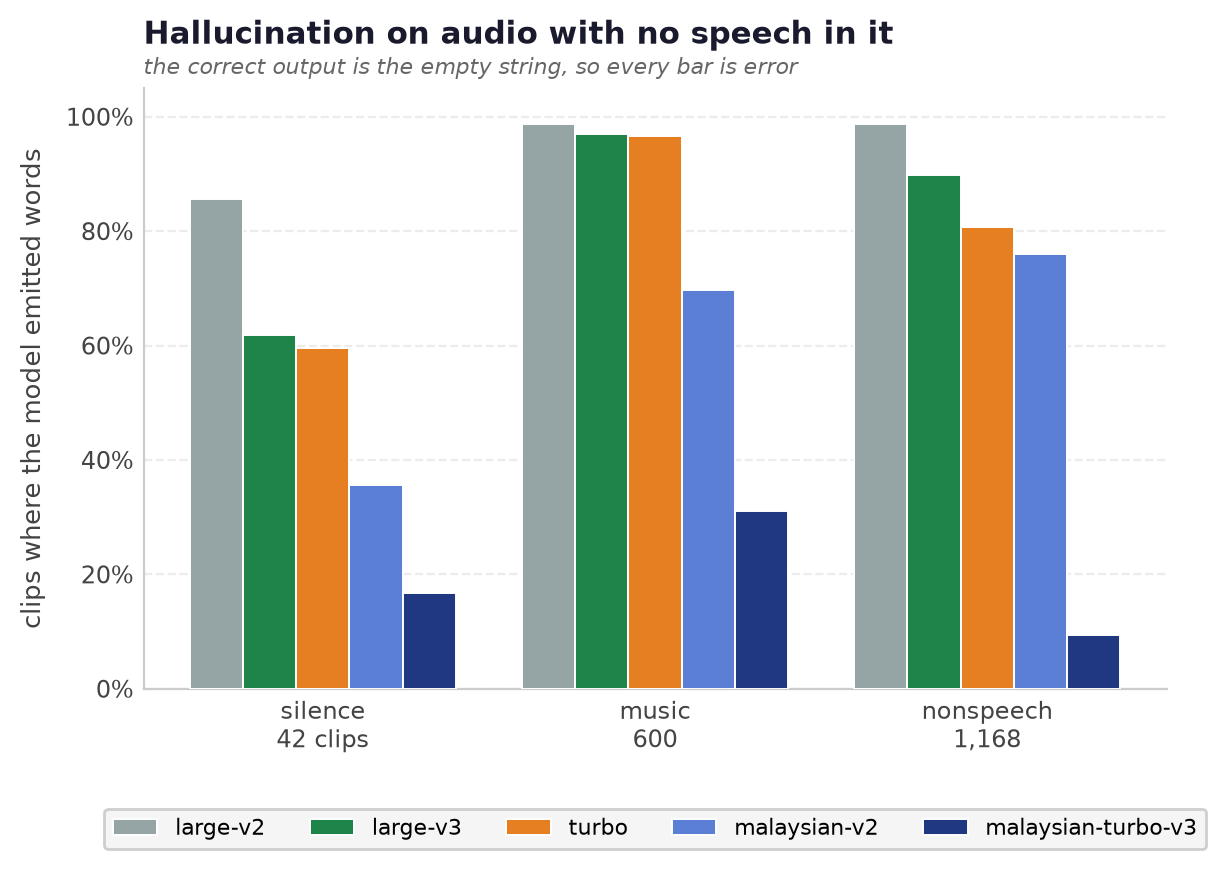
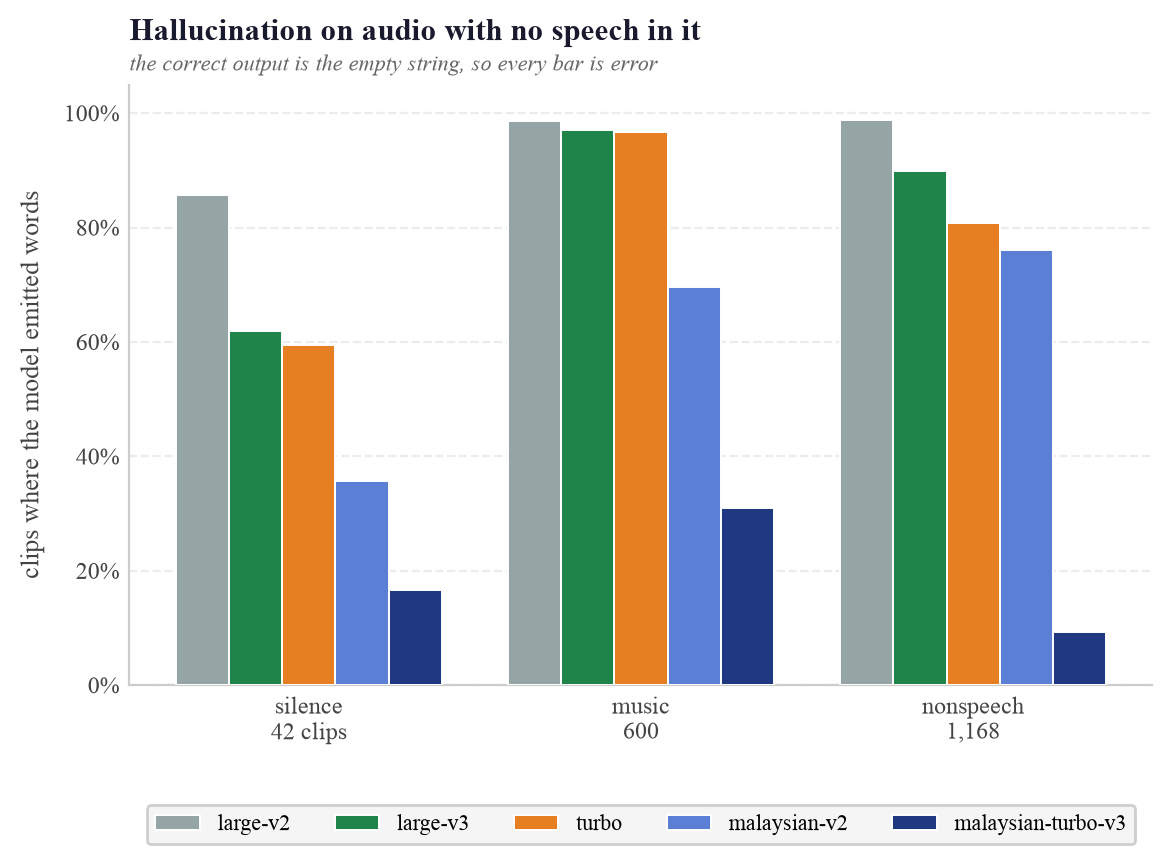
Set the figures in the paper's typeface, and stop the floats drifting
Two real defects, both mine.

The paper is Times: neurips_2023.sty does \renewcommand{\rmdefault}{ptm}. Matplotlib defaults
to DejaVu Sans, so every label, tick and legend in all sixteen figures was in a different
typeface from the body text. plot_figs.py now sets font.family serif with Times first and stix
for mathtext.

Floats were drifting pages away from the paragraph that introduces them, because LaTeX will
not place a float on a page whose remaining text falls below \textfraction, and with sixteen
figures that fires constantly. Relaxed topfraction to 0.92, textfraction to 0.06,
floatpagefraction to 0.70, raised the per-page float counters, and moved every float to
[!htbp]. Measured after: every figure caption is now within one page of its first mention,
where several were three or more pages away.

diff --git a/preprint/neurips_2023.tex b/preprint/neurips_2023.tex
@@ -27,6 +27,17 @@
 \usepackage{adjustbox}
 \usepackage[section]{placeins}
 
+% LaTeX will not put a float on a page whose text drops below \textfraction, which with 17
+% figures sends them drifting pages away from the paragraph that introduces them. Let a float
+% take more of the page and let a float page be less full.
+\renewcommand{\topfraction}{0.92}
+\renewcommand{\bottomfraction}{0.85}
+\renewcommand{\textfraction}{0.06}
+\renewcommand{\floatpagefraction}{0.70}
+\setcounter{topnumber}{3}
+\setcounter{bottomnumber}{2}
+\setcounter{totalnumber}{4}
+
 % The default skips put a caption flush against its table and a float flush against the
 % surrounding text, which reads as a wall.
 \setlength{\abovecaptionskip}{10pt}
@@ -128,7 +139,7 @@ OpenAI releases. The other two are Mesolitica's Malay fine-tunes, which matter h
 their training pipeline is public and already contains non-speech audio, so they are the
 closest existing thing to the fix this paper proposes.
 
-\begin{table}[htbp]
+\begin{table}[!htbp]
 \centering
 \caption{The checkpoints, and the short labels used in every table and figure below. The two
 Malay fine-tunes are built on \texttt{large-v2} and \texttt{turbo} respectively, and
@@ -150,7 +161,7 @@ thirty-two. Wide tables abbreviate the last two labels further, to \texttt{mal-v
 \end{tabular}
 \end{table}
 
-\begin{table}[htbp]
+\begin{table}[!htbp]
 \centering
 \caption{Hallucination on audio that contains no speech. The correct output is the empty
 string, so any output at all is wrong. The first block counts outputs containing words, the
@@ -282,7 +293,7 @@ emitting text, which is the failure mode of every aggressive fine-tune we measur
 
 \subsection{Non-speech audio}
 
-\begin{table}[htbp]
+\begin{table}[!htbp]
 \centering
 \caption{The eight benchmark arms. Every arm is a \texttt{test} split. The training corpus is a
 separate build that is disjoint by construction, verified before any training run.}
@@ -336,7 +347,7 @@ words emitted where Silero voice activity detection finds no speech. We never ca
 hallucination because a transcript disagrees with a reference, since that finds ordinary
 recognition errors.
 
-\begin{table}[htbp]
+\begin{table}[!htbp]
 \centering
 \caption{Hallucination yield by corpus, per 8,000 clips heard. Recording quality predicts yield
 across five thousandfold.}
@@ -383,7 +394,7 @@ Their pipeline is open, their training mix already contains non-speech audio, an
 only checkpoints here that were deliberately tuned against hallucination. Treat them as the
 strong baseline, not as a foil.
 
-\begin{figure}[htbp]
+\begin{figure}[!htbp]
   \centering
   \includegraphics[width=0.86\linewidth]{img/fig_tradeoff.png}
   \caption{Every checkpoint trades one failure for the other. Horizontal axis is how often the model emits words over audio with no speech in it, pooled over the three non-speech arms and weighted by clip count. Vertical axis is how often it recovers a phrase that is genuinely spoken. The top left corner is the model everyone wants and nothing is there.}
@@ -394,21 +405,21 @@ strong baseline, not as a foil.
 $r = +0.63$ between the pooled non-speech word-emission rate and phrase recovery. Quiet models delete real speech and accurate models write over silence. This is
 the central measurement of the paper and it is what makes a one-sided metric dangerous.
 
-\begin{figure}[htbp]
+\begin{figure}[!htbp]
   \centering
   \includegraphics[width=0.86\linewidth]{img/fig_nonspeech.png}
   \caption{Hallucination on the three non-speech arms. Every bar is error, because the correct output is the empty string.}
   \label{fig:benchmark}
 \end{figure}
 
-\begin{figure}[htbp]
+\begin{figure}[!htbp]
   \centering
   \includegraphics[width=0.86\linewidth]{img/fig_repetition.png}
   \caption{Both extremes are wrong on repeated speech. A model that emits more repeats than were spoken is running away; a model that emits nothing has deleted the speech. \texttt{Malaysian-turbo-v3} does the second on 58.0\% of clips.}
   \label{fig:redup}
 \end{figure}
 
-\begin{table}[htbp]
+\begin{table}[!htbp]
 \centering
 \caption{Accuracy. The last two rows are the multilingual guard, in character error rate.}
 \label{tab:wer}
@@ -438,7 +449,7 @@ these languages at all. For base \texttt{large-v3}, Amharic sits at 1.81 charact
 Khmer at 1.58, Somali at 1.44, while Spanish, Italian and Dutch sit at 0.01. The mean measures
 the tail and the median measures the typical language. Quoting one without the other misleads.
 
-\begin{figure}[htbp]
+\begin{figure}[!htbp]
   \centering
   \includegraphics[width=0.86\linewidth]{img/fig_fleurs_per_lang.png}
   \caption{The same measurement language by language, ordered by base \texttt{large-v3}
@@ -448,7 +459,7 @@ the tail and the median measures the typical language. Quoting one without the o
   \label{fig:fleursperlang}
 \end{figure}
 
-\begin{figure}[htbp]
+\begin{figure}[!htbp]
   \centering
   \includegraphics[width=0.86\linewidth]{img/fig_accuracy.png}
   \caption{English accuracy hides what a multilingual fine-tune destroyed. \texttt{malaysian-whisper-v2} matches base \texttt{large-v3} on LibriSpeech and returns character error rate 1.05 on the typical FLEURS language.}
@@ -463,14 +474,14 @@ carries 27 points of word error rate. Looping is also what separates \texttt{tur
 
 \subsection{The positive arm}
 
-\begin{figure}[htbp]
+\begin{figure}[!htbp]
   \centering
   \includegraphics[width=0.86\linewidth]{img/fig_lexsynth_recovered.png}
   \caption{The ranking inverts when the phrase is really spoken. 6,267 clips in 83 languages, each run three ways. Padding is applied to the same clips, so each triple is a within-clip comparison.}
   \label{fig:lexsynth}
 \end{figure}
 
-\begin{table}[htbp]
+\begin{table}[!htbp]
 \centering
 \caption{\texttt{lexicon\_synth} test split. Emitting the phrase is correct here.}
 \label{tab:lexsynth}
@@ -500,7 +511,7 @@ clips run past twice the phrase length.
 
 \subsection{Results on wild audio}
 
-\begin{figure}[htbp]
+\begin{figure}[!htbp]
   \centering
   \includegraphics[width=0.86\linewidth]{img/fig_lexsynth_tail.png}
   \caption{Mean character error rate on the positive arm is a tail statistic. The median barely
@@ -509,7 +520,7 @@ clips run past twice the phrase length.
   \label{fig:lexsynthtail}
 \end{figure}
 
-\begin{figure}[htbp]
+\begin{figure}[!htbp]
   \centering
   \includegraphics[width=0.86\linewidth]{img/fig_wild_yield.png}
   \caption{Hallucination yield by corpus, per 8,000 clips heard, on a log scale. Curated corpora barely fail. GigaSpeech is the right material and still yields 0.41\%, because its segments are cut to speech.}
@@ -526,7 +537,7 @@ Most wild loops are model-specific. On clips mined because \texttt{large-v3} loo
 \texttt{turbo} loops on 17.2\%. A loop corpus mined with one model is not a fair loop benchmark
 for another.
 
-\begin{figure}[htbp]
+\begin{figure}[!htbp]
   \centering
   \includegraphics[width=0.86\linewidth]{img/fig_wild_blank.png}
   \caption{Real audio that a voice activity detector confirms has no speech in it. Every OpenAI
@@ -569,14 +580,14 @@ than it looks.
 
 \subsection{Choosing a generator}
 
-\begin{figure}[htbp]
+\begin{figure}[!htbp]
   \centering
   \includegraphics[width=0.86\linewidth]{img/fig_tts.png}
   \caption{Text-to-speech candidates on 48 lexicon phrases in 22 languages, identical text, scored by recognition round trip. Coverage and quality are not the same axis.}
   \label{fig:tts}
 \end{figure}
 
-\begin{table}[htbp]
+\begin{table}[!htbp]
 \centering
 \caption{Text-to-speech candidates. Round-trip character error rate, lower is better.}
 \label{tab:tts}
@@ -601,7 +612,7 @@ hundred-language sweep, with Multilingual-Expressive handling Malay, English, Ch
 
 \subsection{Voice diversity}
 
-\begin{figure}[htbp]
+\begin{figure}[!htbp]
   \centering
   \includegraphics[width=0.86\linewidth]{img/fig_voice_diversity.png}
   \caption{One voice per language, and what fixed it. Pairwise speaker similarity on a calibrated scale where 0.605 is two strangers and 0.853 is two clips of the same person.}
@@ -615,7 +626,7 @@ language. A corpus built that way teaches the model one speaker's phrase, not th
 
 The obvious fix, reference cloning, is the wrong one.
 
-\begin{table}[htbp]
+\begin{table}[!htbp]
 \centering
 \caption{Two routes to distinct voices, probed on the same 4 languages, 24 phrases and 4 voices.
 Lower cosine means better separated voices.}
@@ -639,7 +650,7 @@ collapsed language moved from 0.81 to 0.63.
 
 \subsection{Voice conversion}
 
-\begin{figure}[htbp]
+\begin{figure}[!htbp]
   \centering
   \includegraphics[width=0.86\linewidth]{img/fig_vc.png}
   \caption{Voice conversion candidates. Character error rate added on top of the source clip against how far the voice actually moved. A converter that returns its input scores a perfect zero cost and is worthless, which is why the vertical axis is here at all.}
@@ -672,7 +683,7 @@ The target for a blank clip is the empty transcript under that clip's language t
 what teaches ``no words here'' rather than ``emit something short''. The four prompt tokens are
 masked out of the loss, so loss falls only on the transcript and the final end-of-text token.
 
-\begin{table}[htbp]
+\begin{table}[!htbp]
 \centering
 \caption{Training sets. Everything is disjoint from the benchmark by construction and every
 test split stays held out.}
@@ -705,7 +716,7 @@ real audio?
 
 Two mixes, identical except for the synthetic positives.
 
-\begin{table}[htbp]
+\begin{table}[!htbp]
 \centering
 \caption{The paired mixes. \texttt{no\_synth} is \texttt{all} with \texttt{lexicon\_synth}
 removed and nothing else changed.}
@@ -737,7 +748,7 @@ half. \texttt{fc1} maps 1{,}280 to 5{,}120 and \texttt{fc2} maps back, so each o
 two and a half times the low-rank parameters of a \texttt{1{,}280 \times 1{,}280} attention
 projection at the same rank. We sweep both choices rather than assuming one.
 
-\begin{table}[htbp]
+\begin{table}[!htbp]
 \centering
 \caption{The two adapter families. Trainable counts are measured from the runs, not estimated,
 and are exactly linear in rank. At every rank, adding the MLP pair costs 1.83 times the
@@ -759,10 +770,11 @@ attention + MLP & the four above, plus \texttt{fc1}, \texttt{fc2}
 \end{tabular}
 \end{table}
 
-Ten LoRA configurations per mix, five ranks in each family, plus three full fine-tunes, at three
-learning rates each. Both mixes throughout, so every configuration is a matched pair.
+That is five ranks in each of the two families at three learning rates, thirty adapter
+configurations, plus three full fine-tunes: 33 per mix and 66 runs in total. Both mixes
+throughout, so every configuration is a matched pair.
 
-\begin{table}[htbp]
+\begin{table}[!htbp]
 \centering
 \caption{The grid. Every cell is run on both mixes. 1e-3 is absent on purpose, see below.}
 \label{tab:grid}
@@ -793,7 +805,7 @@ Table~\ref{tab:paired} is the answer to both questions. Every row is one fine-tu
 \texttt{whisper-large-v3}, and the two rows in each pair differ only by the 22,845 synthetic
 positives.
 
-\begin{table}[htbp]
+\begin{table}[!htbp]
 \centering
 \caption{The paired sweep. \texttt{wild words} is the share of 4,421 real voice-free clips
 where the model emitted words, \texttt{wild loop} the share carrying a token run of six or
@@ -804,7 +816,7 @@ everywhere except \texttt{recovered}.}
 \input{table_paired}
 \end{table}
 
-\begin{figure}[htbp]
+\begin{figure}[!htbp]
   \centering
   \includegraphics[width=0.86\linewidth]{img/fig_sweep_wild_halluc.png}
   \caption{Hallucination on real voice-free audio, with and without the synthetic positives, at
@@ -812,7 +824,7 @@ everywhere except \texttt{recovered}.}
   \label{fig:sweepwild}
 \end{figure}
 
-\begin{figure}[htbp]
+\begin{figure}[!htbp]
   \centering
   \includegraphics[width=0.86\linewidth]{img/fig_sweep_cost.png}
   \caption{The trade from Figure~\ref{fig:tradeoff}, redrawn with the fine-tunes on it. The
@@ -854,7 +866,7 @@ hallucination 0.619 to \textbf{0.024}, words over wild voice-free audio 0.999 to
 FLEURS 0.305 to 0.398. It is quieter on noise and better on speech than the model it came from,
 which is the corner Figure~\ref{fig:tradeoff} says is empty.
 
-\begin{figure}[htbp]
+\begin{figure}[!htbp]
   \centering
   \includegraphics[width=0.86\linewidth]{img/fig_loss.png}
   \caption{Training curves for all 24 runs. The mix without the synthetic positives sits below
@@ -865,7 +877,7 @@ which is the corner Figure~\ref{fig:tradeoff} says is empty.
   \label{fig:loss}
 \end{figure}
 
-\begin{figure}[htbp]
+\begin{figure}[!htbp]
   \centering
   \includegraphics[width=0.86\linewidth]{img/fig_loss_vs_result.png}
   \caption{Final training loss against phrase recovery. The two mixes barely overlap on the

diff --git a/preprint/plot_figs.py b/preprint/plot_figs.py
@@ -17,6 +17,16 @@ import matplotlib
 matplotlib.use("Agg")
 import matplotlib.pyplot as plt
 
+# The paper is set in Times: neurips_2023.sty does \renewcommand{\rmdefault}{ptm}. Matplotlib
+# defaults to DejaVu Sans, so every figure label was in a different typeface from the body
+# text. Match the document instead.
+matplotlib.rcParams.update({
+    "font.family": "serif",
+    "font.serif": ["Times New Roman", "Times", "STIXGeneral", "DejaVu Serif"],
+    "mathtext.fontset": "stix",
+    "axes.unicode_minus": False,
+})
+
 HERE = Path(__file__).resolve().parent
 ROOT = HERE.parent
 IMG = HERE / "img"
@@ -667,12 +677,54 @@ def fig_sweep_rank():
     save(fig, "fig_sweep_rank.png")
 
 
+def fig_sweep_family():
+    """Same rank, same learning rate, different modules. Isolates what the MLP pair buys."""
+    rows = sweep_rows()
+    if not rows:
+        print("!! fig_sweep_family.png: no sweep_rows.json yet")
+        return
+    by = {}
+    for _, fam, rank, lr, a, n in rows:
+        if fam == "full" or not a or a.get("wild_words") is None:
+            continue
+        by.setdefault((fam, lr), {})[rank] = a["wild_words"]
+    if not by:
+        print("!! fig_sweep_family.png: no adapter runs yet")
+        return
+    fig, ax = plt.subplots(figsize=(6.6, 4.0), dpi=DPI)
+    style = {"1e-4": ":", "2e-4": "--", "5e-4": "-"}
+    seen = set()
+    for (fam, lr), pts in sorted(by.items()):
+        xs = sorted(pts)
+        color = "#1a5276" if fam == "lora" else "#e67e22"
+        lab = None
+        if fam not in seen:
+            seen.add(fam)
+            lab = FAM_LABEL[fam]
+        ax.plot(xs, [pts[x] for x in xs], marker="o", markersize=4.5, color=color,
+                linewidth=1.6, linestyle=style.get(lr, "-"), alpha=0.9, label=lab)
+    ax.axhline(0.999, color="#1a1a2e", linewidth=0.9, linestyle=":", alpha=0.7)
+    ax.text(0.99, 0.992, "base large-v3", transform=ax.get_yaxis_transform(), ha="right",
+            fontsize=7.6, color="#1a1a2e", style="italic", va="top")
+    ax.set_xscale("log", base=2)
+    ax.xaxis.set_minor_formatter(matplotlib.ticker.NullFormatter())
+    ax.set_xticks(RANKS)
+    ax.set_xticklabels([str(r) for r in RANKS], fontsize=8.5, color=TICK)
+    pct(ax, 1.05)
+    frame(ax, xlab="LoRA rank", ylab="words emitted over voice-free wild audio",
+          title="Learning to stop lives in the feed-forward layers",
+          sub="`all` mix; one line per learning rate, dotted 1e-4, dashed 2e-4, solid 5e-4",
+          axis="both")
+    legend_below(ax, ncol=2, pad=0.18)
+    save(fig, "fig_sweep_family.png")
+
+
 if __name__ == "__main__":
     for fn in (fig_nonspeech, fig_repetition, fig_tradeoff, fig_accuracy, fig_fleurs_per_lang,
                fig_lexsynth_recovered, fig_lexsynth_tail, fig_wild_yield, fig_wild_blank,
                fig_tts, fig_vc, fig_voice_diversity,
                fig_sweep_wild_halluc, fig_sweep_wild_loop, fig_sweep_cost,
-               fig_loss, fig_loss_vs_result, fig_sweep_rank):
+               fig_loss, fig_loss_vs_result, fig_sweep_rank, fig_sweep_family):
         try:
             fn()
         except Exception as e:

diff --git a/preprint/CLAUDE.md b/preprint/CLAUDE.md
@@ -41,11 +41,18 @@ Build: `pdflatex neurips_2023 && bibtex neurips_2023 && pdflatex neurips_2023 &&
   README wants one picture that says everything. A paper does not: every panel needs its own
   number and its own caption. `plot_figs.py` re-draws them as single-panel PNGs into `img/`
   straight from the scorer output. Never hand-edit a figure, and never copy a composite in.
+- **Figures are set in the paper's typeface.** `neurips_2023.sty` does
+  `\renewcommand{\rmdefault}{ptm}`, so the body is Times. Matplotlib defaults to DejaVu Sans,
+  which put every figure label in a different font from the text. `plot_figs.py` sets
+  `font.family: serif` with Times first and `mathtext.fontset: stix`. Do not remove it.
 - **Legends go outside the axes**, under the plot (`legend_below`). Inside the frame they land
   on the bars and points a reader came for, and which corner is free changes with the data.
-- **Float placement is `[tb]`, not `[H]`.** `[H]` pins a figure where it is declared and leaves
-  the rest of the page blank when it does not fit, which is what made the first draft look
-  half empty.
+- **Float placement is `[!htbp]` with relaxed fractions.** `[H]` pins a figure where it is
+  declared and blanks the rest of the page; plain `[tb]` plus LaTeX's default `\textfraction`
+  sends floats drifting pages away from the paragraph that introduces them. The preamble sets
+  `topfraction` 0.92, `textfraction` 0.06 and `floatpagefraction` 0.70, with `placeins`
+  barriers per section. Check placement with: every figure's caption page must be within one
+  page of its first mention.
 - **Acknowledgements are professional.** Thank Scicom (MSC) Berhad. No jokes about the
   electricity bill.
 - **Section titles are short noun phrases.** "Wild audio", not "Wild pool: audio that actually
